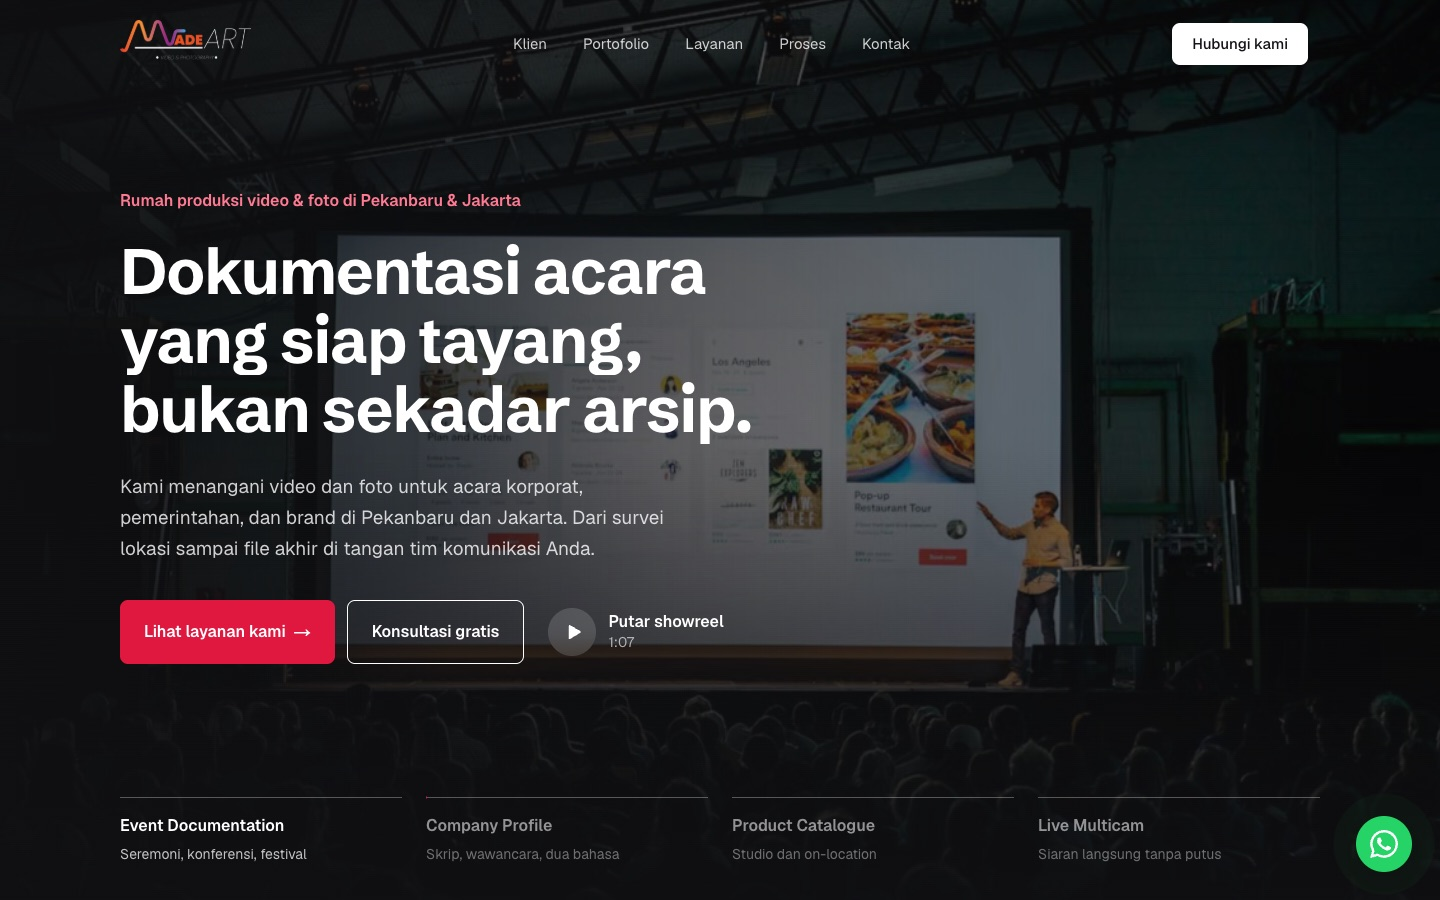
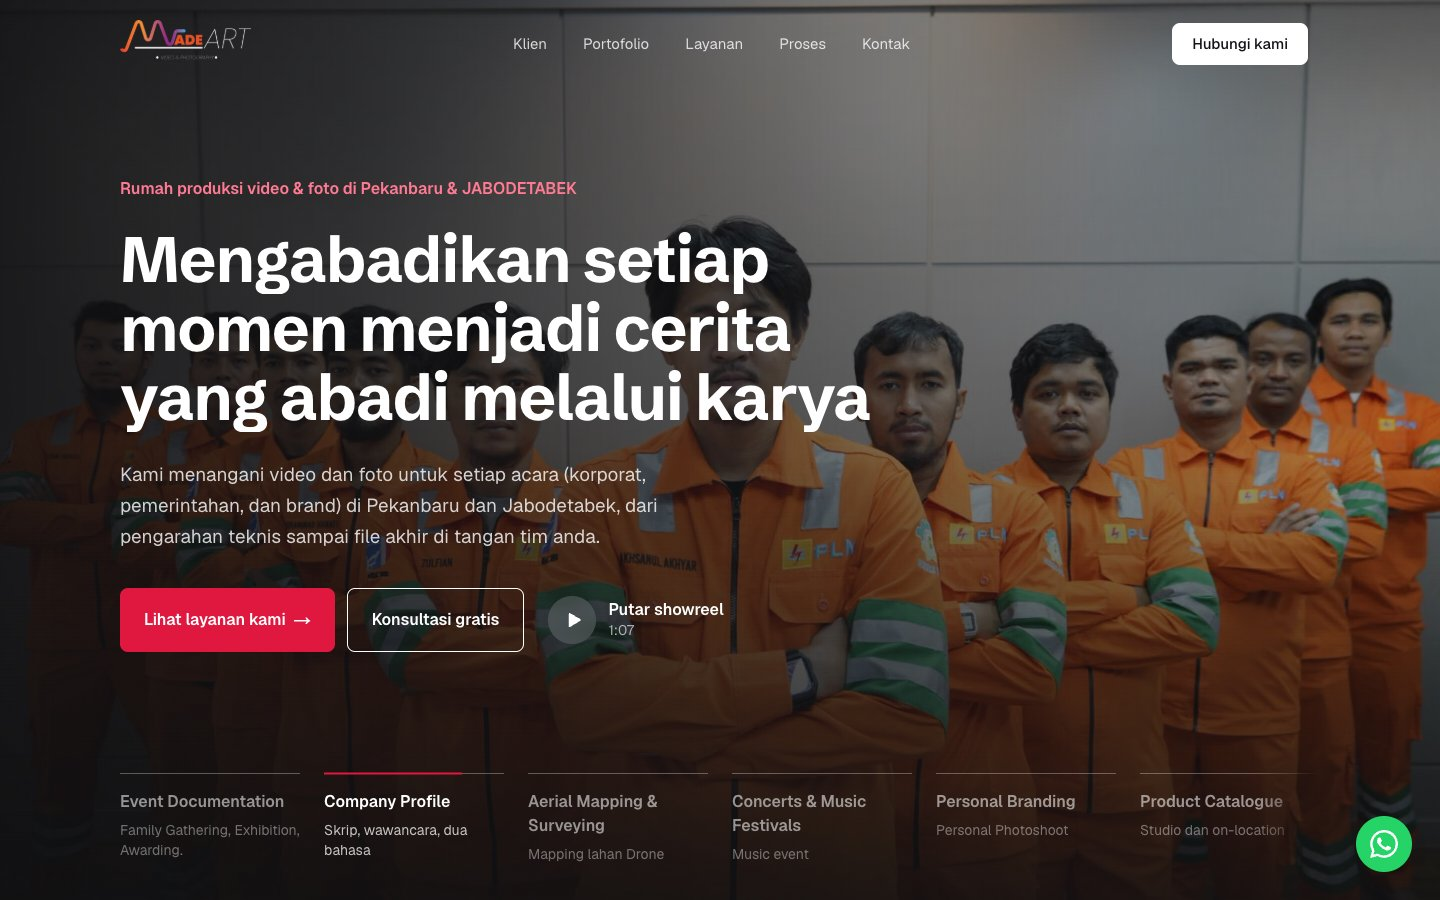
feat: perbarui tangkapan layar portofolio Made Art

diff --git a/src/content/en.ts b/src/content/en.ts
@@ -190,7 +190,7 @@ export const en: Dictionary = {
         ...id.portfolio.items[1],
         kind: "Client project",
         summary:
-          "Website for a video and photo production house in Pekanbaru and Jakarta: showreel, event portfolio, services, and process, with content managed through a CMS.",
+          "Website for a video and photo production house in Pekanbaru and Greater Jakarta: showreel, event portfolio, services, and process, with content managed through a CMS.",
       },
       {
         ...id.portfolio.items[2],

diff --git a/src/content/id.ts b/src/content/id.ts
@@ -280,7 +280,7 @@ export const id = {
         kind: "Proyek klien",
         client: true,
         summary:
-          "Situs rumah produksi video dan foto di Pekanbaru dan Jakarta: showreel, portofolio acara, layanan, dan alur kerja, dengan isi yang dikelola lewat CMS.",
+          "Situs rumah produksi video dan foto di Pekanbaru dan Jabodetabek: showreel, portofolio acara, layanan, dan alur kerja, dengan isi yang dikelola lewat CMS.",
         image: "/products/site-madeart.jpg",
         featured: false,
       },

diff --git a/src/lib/seo.ts b/src/lib/seo.ts
@@ -8,7 +8,7 @@ import { getDictionary, homePath, locales, ogLocale, site, type Locale } from "@
 export const siteUrl = (process.env.NEXT_PUBLIC_SITE_URL || "https://sissi.id").replace(/\/+$/, "");
 
 /** Tanggal terakhir isi diperbarui (sitemap). Ubah saat teks berubah. */
-export const contentUpdated = "2026-10-16";
+export const contentUpdated = "2026-10-17";
 
 /** Peta hreflang → alamat; x-default = bahasa bawaan. */
 export const languageAlternates = {

diff --git a/docs/PEKERJAAN.md b/docs/PEKERJAAN.md
@@ -35,7 +35,7 @@ _(kosong)_
 - [ ] **P3 · Foto hero asli** — idealnya foto anggota tim sungguhan.
   Ganti dengan foto anggota tim asli bila ada: latar polos, setengah badan; potong dengan Vision macOS seperti catatan
   2026-10-14, simpan WebP transparan ±800 px lebar.
-- [ ] **P3 · Tangkapan layar portofolio diperbarui** — `public/products/site-*.jpg` diambil 2026-10-14 (madeart: 2026-10-16) dari situs
+- [ ] **P3 · Tangkapan layar portofolio diperbarui** — `public/products/site-*.jpg` diambil 2026-10-14 (madeart: 2026-10-17) dari situs
   langsung (Chrome headless 1440×900). Ambil ulang bila situsnya berubah besar.
 - [ ] **P3 · Nama PT** — situs memakai "PT. Sissi Kreatif Teknologi" atas permintaan pemilik walau akta belum
   terbit (2026-10-14). Bila nama/badan hukum berubah, cukup ubah `site.company`.
@@ -47,6 +47,10 @@ _(kosong)_
 
 ## Selesai (terbaru di atas)
 
+- **2026-10-17 · Portofolio Made Art diperbarui (XS; Claude Opus 5.5; permintaan pemilik)** — tangkapan layar
+  `site-madeart.jpg` diambil ulang setelah situs klien ganti foto & copy hero. Situs kini punya preloader, jadi
+  `chrome --screenshot` biasa hanya menangkap logo; dipakai Chrome headless lewat CDP (1440×900, tunggu ±12 dtk).
+  Ringkasan kartu: "Jakarta" → "Jabodetabek" / "Greater Jakarta" mengikuti situsnya.
 - **2026-10-16 · Navigasi anchor lebih halus (XS; Claude Opus 5.5; permintaan pemilik)** — `html` kini
   `scroll-behavior: smooth` (sebelumnya hanya atribut `data-scroll-behavior` tanpa CSS-nya, jadi #produk dkk.
   meloncat; tetap mati bila `prefers-reduced-motion`). Menu seluler dibuat melayang (`absolute top-full`) agar
